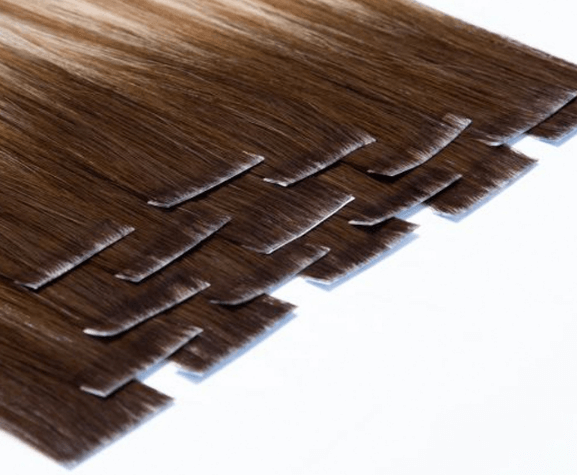
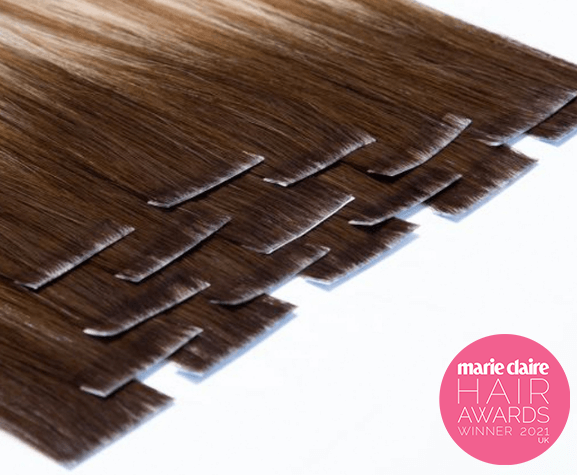
update Invisi Tape CTA image

Changed region(s): [[0.7487, 0.6779, 0.9983, 1.0]]

diff --git a/uk-trade/home-page/index.html b/uk-trade/home-page/index.html
@@ -101,7 +101,8 @@
             <div class="col-md-4 col-xs-12">
                 <div class="cta-block">
                     <a href="{{store url=''}}professional-extensions/tape-extensions/invisi-tape.html">
-                        <img loading="lazy" src="{{media url='wysiwyg/tradeHome2020/beauty_works_invisi-tapes.png'}}"
+                        <img loading="lazy"
+                            src="{{media url=&quot;wysiwyg/tradeHome2020/beauty_works_invisi-tapes_1.png&quot;}}"
                             alt="Beauty Works Invisi-Tapes" title="Beauty Works Invisi-Tapes" />
                     </a>
                     <a href="{{store url=''}}professional-extensions/tape-extensions/invisi-tape.html">
